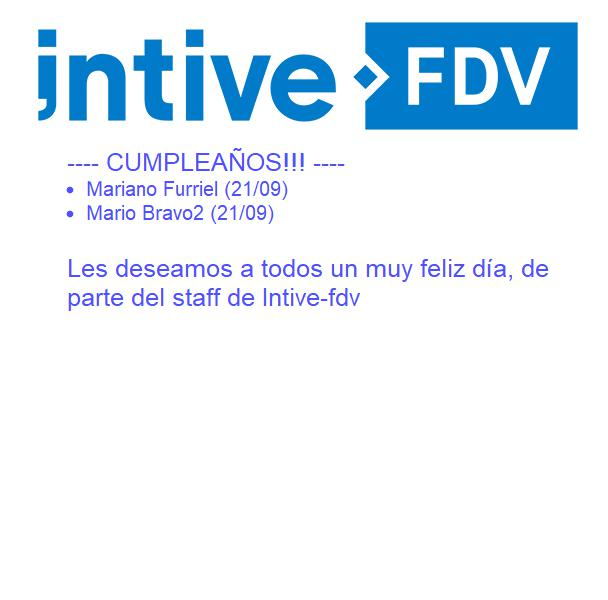
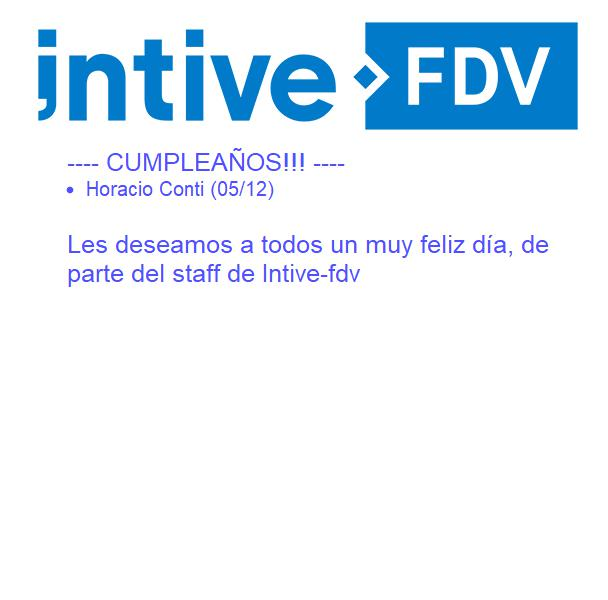
add the futures thing to do

Changed region(s): [[0.0938, 0.3, 0.9062, 0.51]]

diff --git a/imgtourl.js b/imgtourl.js
@@ -1,6 +1,25 @@
 var urlToImage = require('url-to-image');
-urlToImage('http://localhost:8080/template/', 'img/birthdays.jpg',{ width:600, height:600,maxTimeout: 1000 * 10, verbose: true}).then(function() {
-   
-}).catch(function(err) {
-    console.error(err);
+var fs = require('fs');
+fs.stat('./img/birthdays.jpg', function(err,stats){
+    if(err) {
+        return urlToImage('http://localhost:8080/template/', 'img/birthdays.jpg',
+            { width:600, 
+              height:600,
+              maxTimeout: 1000 * 10,
+              verbose: true,
+              
+            }).then(function() {
+        }).catch(function(err) {
+            console.error(err);
+        });
+    }
+    fs.unlink('./img/birthdays.jpg', function(err){
+        if(err) {
+            return console.error(err);
+        }   
+        return urlToImage('http://localhost:8080/template/', 'img/birthdays.jpg',{ width:600, height:600,maxTimeout: 1000 * 10, verbose: true}).then(function() {
+        }).catch(function(err) {
+            console.error(err);
+        });        
+    });
 });

diff --git a/src/middleware/index.js b/src/middleware/index.js
@@ -12,7 +12,7 @@ export default ({ config }) => {
 		let today = new Date();
 		let todayString = today.getDate().toString()+'/'+ (today.getMonth() < 10 ? '0':'') + (today.getMonth()+1).toString();
 		console.log(todayString);
-		fetch('http://localhost:3000/employees?birthday='+todayString)
+		fetch('http://localhost:3000/employees?birthday='+'05/12')
 		.then(function(response){
 				return response.json();
 		})

diff --git a/README.md b/README.md
@@ -38,27 +38,21 @@ employees: [ {
 
 Auth / Simple Sign On
 
-Dashboard - Add, modifiy and delete Employees 
-          - editable mail template
-          - Node cron job ( https://github.com/kelektiv/node-cron )
+envio de mails:
 
-Siguientes: agregar botones de 
-add employee (funcionlidad que va a mostrar una pantalla y permitira agregar datos y guardar)
-modifiy employee: boton al lado de cada item del layout
-agregar foto: en add employee
+1 - tengo la pagina de template, que carga los cumpleaños dle dia de hoy
+2 - imgtourl verifica que no exista la imagen (si existe la borra) y la crea con los cumpleaños de hoy
+3 - el chrome enviará los datos de cumpleaños 
 
-Acciones:
+Template --> imgtourl --> sendmail
 
-add_employee_save_pending
-add_employee_success
--------------------------------
-modify_employee_load
-modify_employee_save
-modify_employee_success
--------------------------------
-delete_employee_load
-delete_employee_success
+Si no hay cumpleaños, no deberia enviar mail.
 
+servicio que traiga todos los cumpleaños del dia. y segun estos genere el html para enviar a urltoimg
 
-para guardar: dispatch el save_pending y mandar un fetch con el post y los datos
-una vez terminado mandar un dispatch de save_success
+el cron hara un fetch del dia y enviara los cumpleaños a un archivo temporal.
+este archivo temporal tendra un json con los cumpleaños del dia y su data.
+
+la web template traera este archivo y creara el formato
+el img tourl verificara la cantidad de cumpleaños y si hay, generara la imagen
+el snedmail verificara la cantidad de cumpleaños y si hay, enviara el mail
